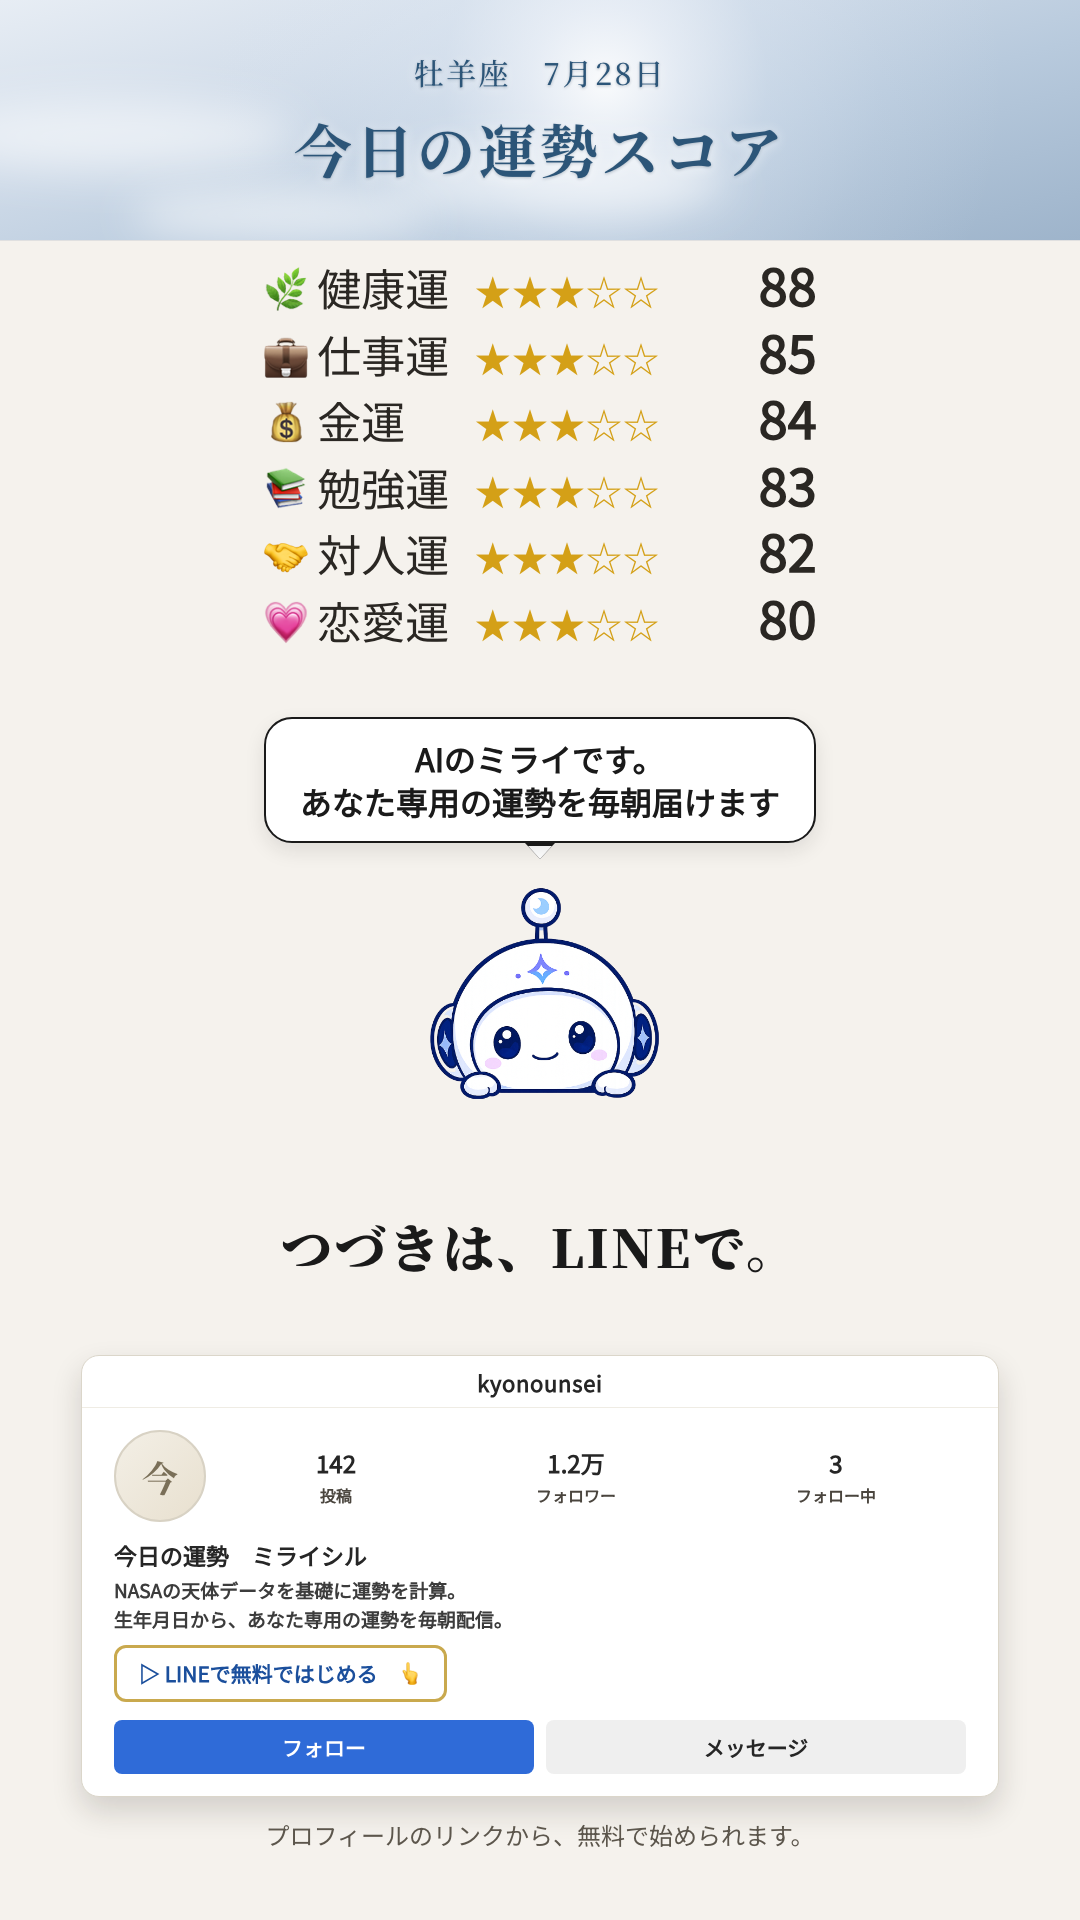
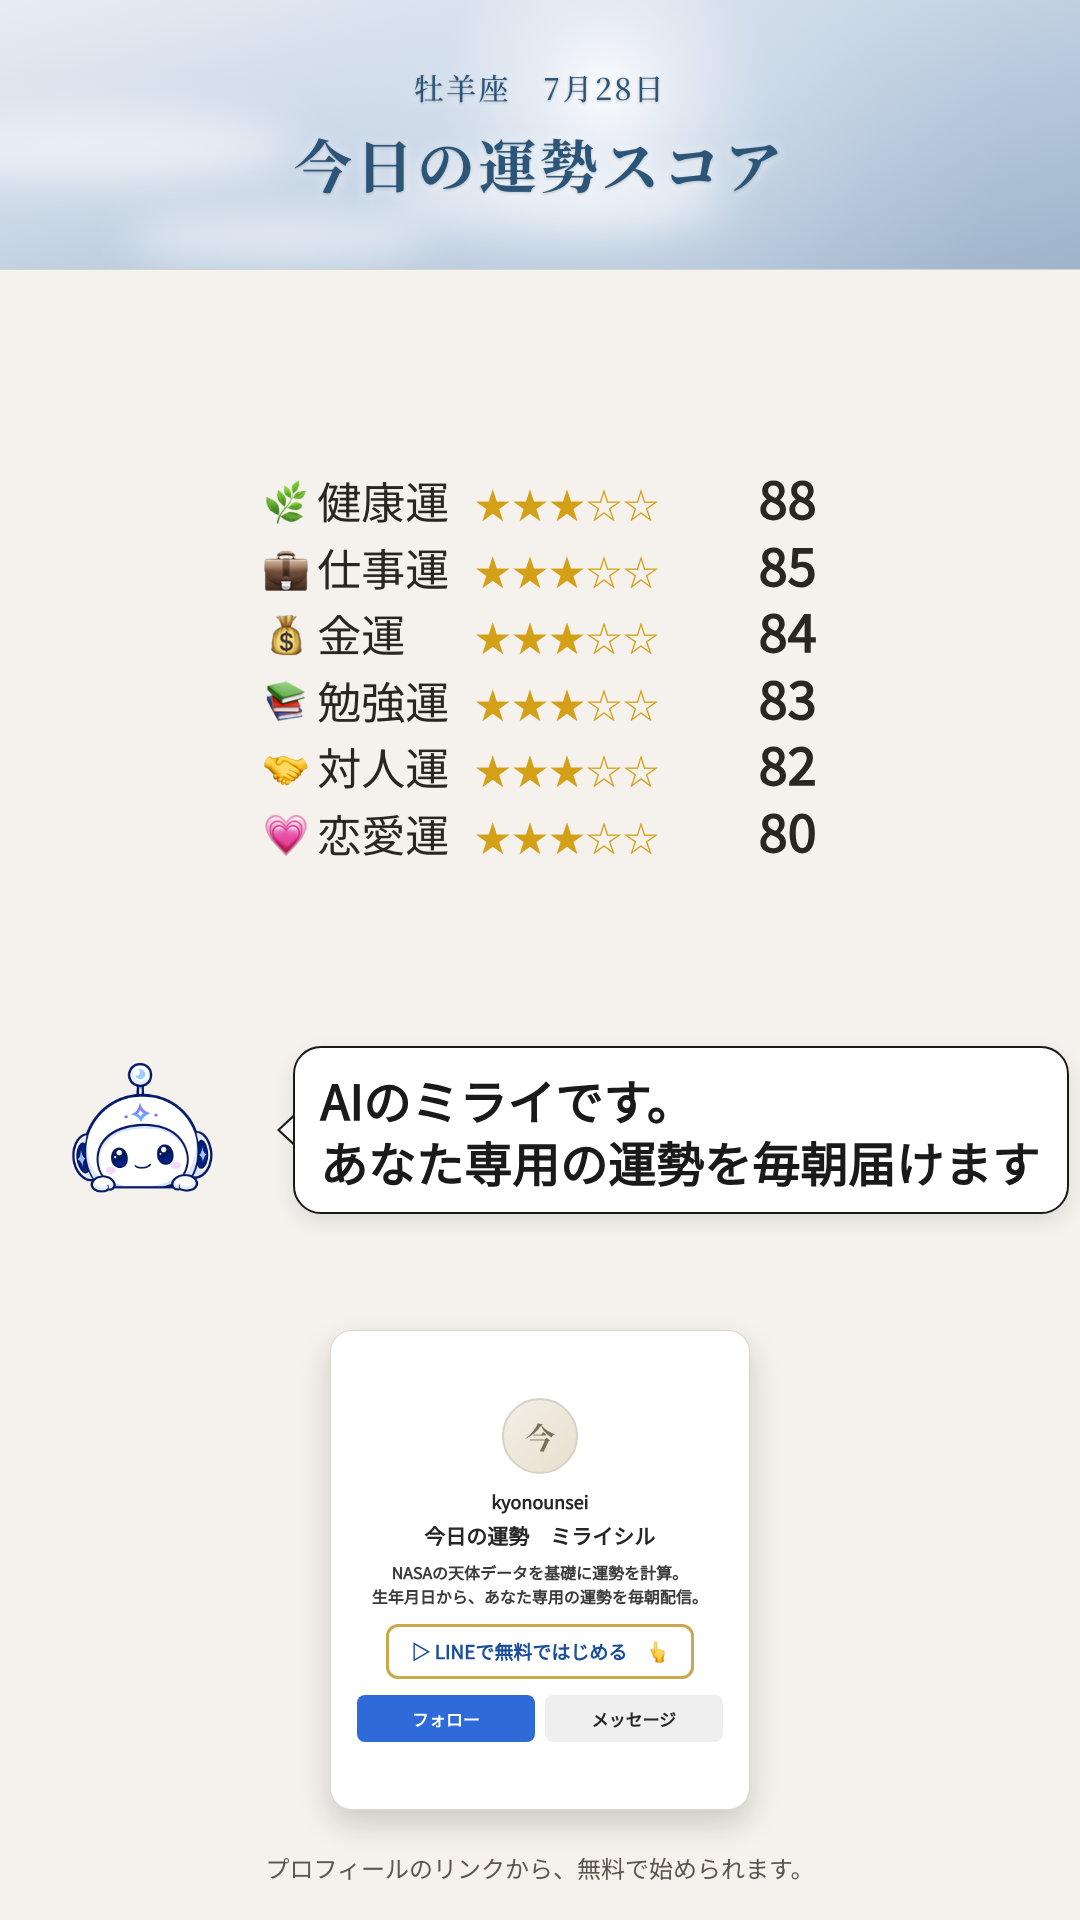
slide4-test: レイアウト全面修正（絶対位置指定・横並びミライ+吹き出し・モック縮小）を牡羊座で確認

diff --git a/slide4-test/index.html b/slide4-test/index.html
@@ -25,7 +25,7 @@
 <body>
 <div class="top-label">ストーリーズ Slide 4（今日の運勢スコア）確認 &middot; Internal Only</div>
 <div class="grid">
-  <div class="card"><img src="aries_slide4.png?v=1785165616" loading="lazy"><div class="label">牡羊座</div></div>
+  <div class="card"><img src="aries_slide4.png?v=1785173092" loading="lazy"><div class="label">牡羊座</div></div>
   <div class="card"><img src="taurus_slide4.png?v=1785165616" loading="lazy"><div class="label">牡牛座</div></div>
   <div class="card"><img src="gemini_slide4.png?v=1785165616" loading="lazy"><div class="label">双子座</div></div>
   <div class="card"><img src="cancer_slide4.png?v=1785165616" loading="lazy"><div class="label">蟹座</div></div>
